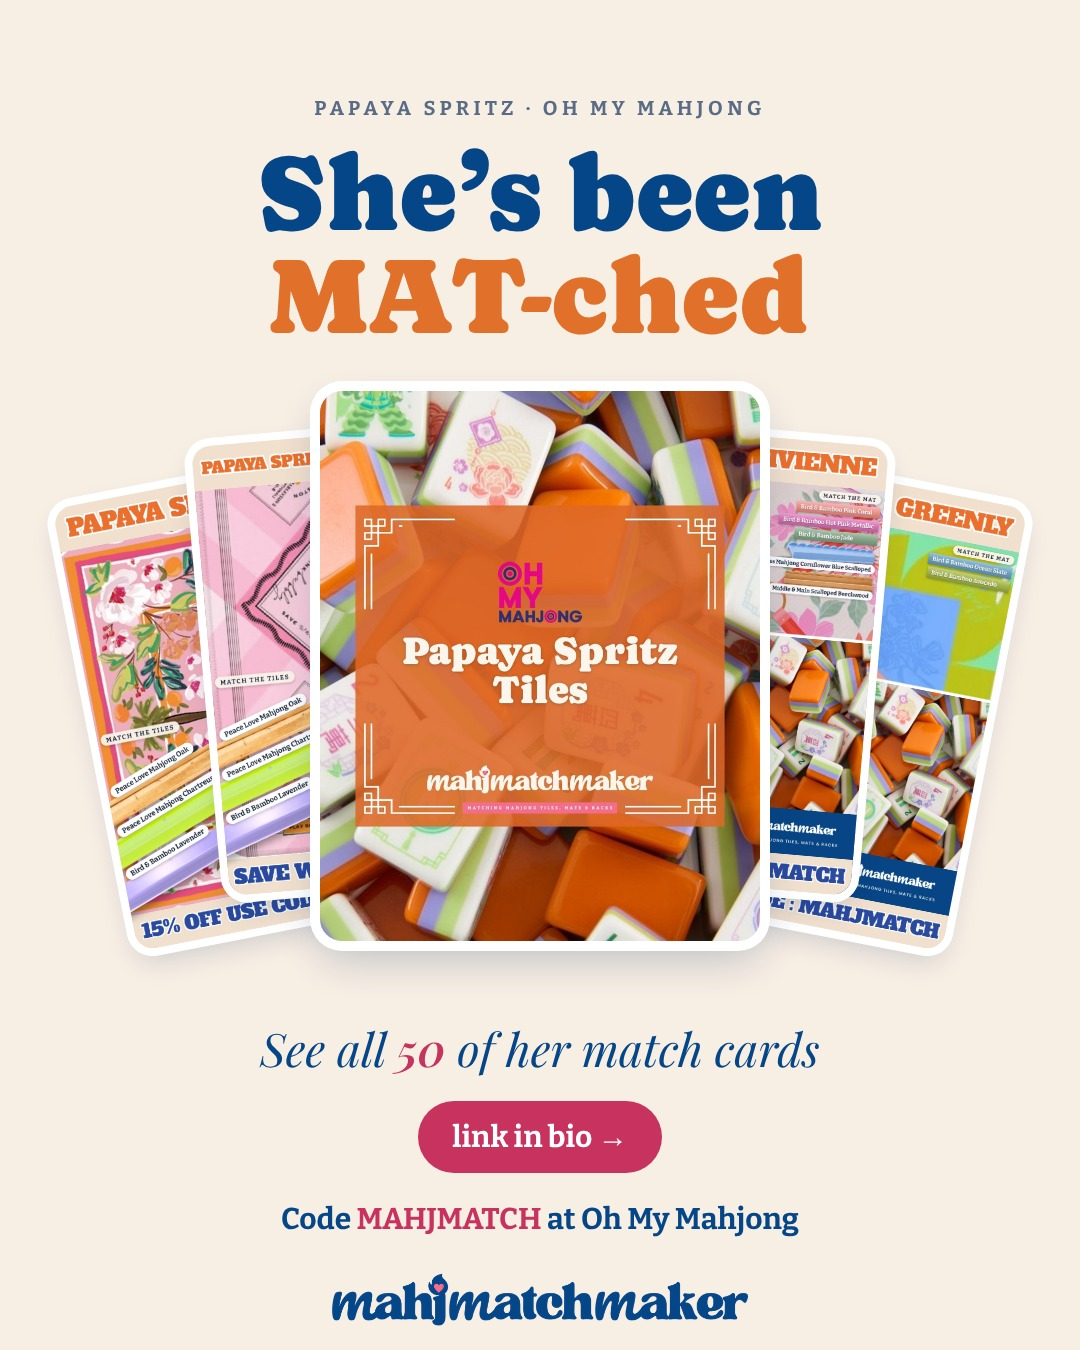
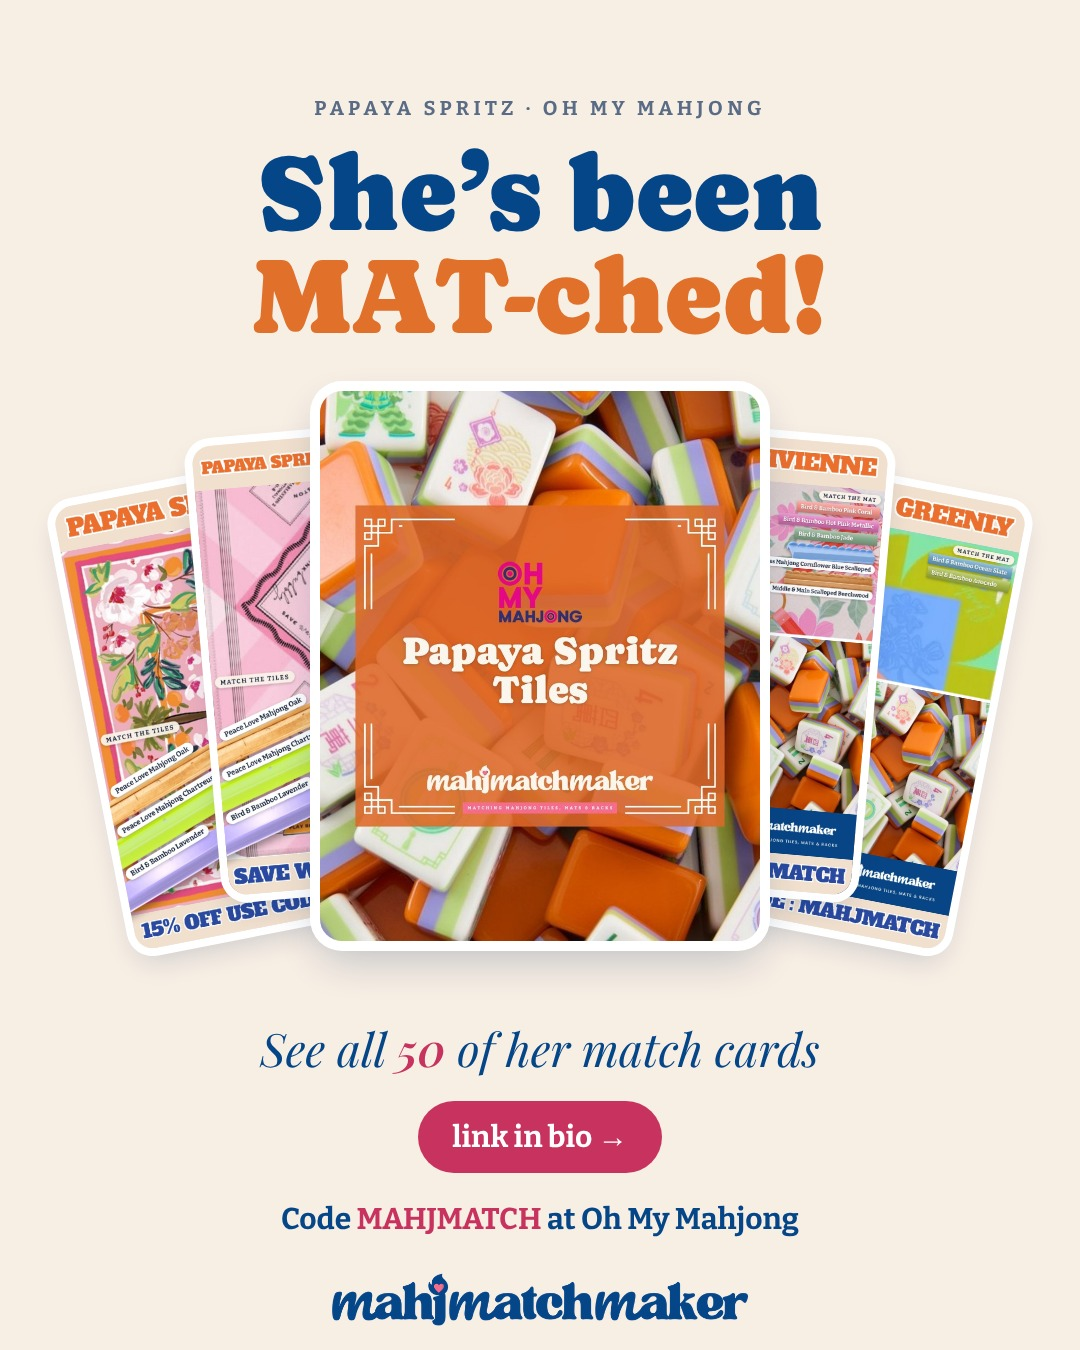
Papaya end slide: MAT-ched!
Claude-Session: https://claude.ai/code/session_014aKoC1ZMdZPjGkZ9kHhnLk

Changed region(s): [[0.2139, 0.1867, 0.7639, 0.2489]]

diff --git a/assets/social/papaya-spritz-launch/html/intro-7.html b/assets/social/papaya-spritz-launch/html/intro-7.html
@@ -25,7 +25,7 @@ html,body{width:1080px;height:1350px;overflow:hidden;background:#f7eee4;color:#0
 </style></head><body>
 <div style="position:absolute;inset:0;display:flex;flex-direction:column;align-items:center;text-align:center;padding:96px 80px 0">
  <div class="caps" style="font-size:20px;color:#5a6b85">Papaya Spritz · Oh My Mahjong</div>
- <div class="cap" style="font-size:108px;margin-top:22px;line-height:.95">She&rsquo;s been<br><span style="color:var(--acc)">MAT-ched</span></div>
+ <div class="cap" style="font-size:108px;margin-top:22px;line-height:.95">She&rsquo;s been<br><span style="color:var(--acc)">MAT-ched!</span></div>
  <div style="position:relative;margin-top:34px;width:900px;height:590px"><div class="ph" style="position:absolute;left:2px;top:90px;width:360px;height:450px;border-radius:18px;background-image:url(file:///home/claude/mahjmatchmaker-data/assets/cards/papaya-spritz/papaya-spritz-mahjong-tiles-britt-mills-heiress-mat.jpg);box-shadow:0 0 0 8px #fff,0 12px 28px rgba(6,40,90,.18);transform:rotate(-11deg);z-index:1"></div><div class="ph" style="position:absolute;left:538px;top:90px;width:360px;height:450px;border-radius:18px;background-image:url(file:///home/claude/mahjmatchmaker-data/assets/cards/papaya-spritz/papaya-spritz-mahjong-tiles-mahj-and-vine-greenly-mat.jpg);box-shadow:0 0 0 8px #fff,0 12px 28px rgba(6,40,90,.18);transform:rotate(11deg);z-index:1"></div><div class="ph" style="position:absolute;left:120px;top:50px;width:360px;height:450px;border-radius:18px;background-image:url(file:///home/claude/mahjmatchmaker-data/assets/cards/papaya-spritz/papaya-spritz-mahjong-tiles-anders-ruff-press-for-mahjong-mat.jpg);box-shadow:0 0 0 8px #fff,0 12px 28px rgba(6,40,90,.18);transform:rotate(-5deg);z-index:2"></div><div class="ph" style="position:absolute;left:420px;top:50px;width:360px;height:450px;border-radius:18px;background-image:url(file:///home/claude/mahjmatchmaker-data/assets/cards/papaya-spritz/papaya-spritz-mahjong-tiles-oh-my-mahjong-vivienne-mat.jpg);box-shadow:0 0 0 8px #fff,0 12px 28px rgba(6,40,90,.18);transform:rotate(5deg);z-index:2"></div><div class="ph" style="position:absolute;left:230px;top:10px;width:440px;height:550px;border-radius:22px;z-index:5;background-image:url(file:///home/claude/mahjmatchmaker-data/assets/covers/albums/w800/00-papaya-spritz-mahjong-tiles-cover.jpg);box-shadow:0 0 0 10px #fff,0 18px 40px rgba(6,40,90,.24)"></div></div>
  <div class="pf" style="font-size:46px;margin-top:46px">See all <b style="font-weight:600;color:var(--pink)">50</b> of her match cards</div>
  <div class="pill" style="margin-top:22px;background:var(--pink)">link in bio &rarr;</div>

diff --git a/scripts/social/tileprofile/intro.py b/scripts/social/tileprofile/intro.py
@@ -37,7 +37,7 @@ fan += (f'<div class="ph" style="position:absolute;left:{450 - 220}px;top:10px;w
 end = f"""<!doctype html><html><head><meta charset=utf8><style>{css(1080, 1350, S['col'])}</style></head><body>
 <div style="position:absolute;inset:0;display:flex;flex-direction:column;align-items:center;text-align:center;padding:96px 80px 0">
  <div class="caps" style="font-size:20px;color:#5a6b85">{e(P['name'])} · {e(P['brand'])}</div>
- <div class="cap" style="font-size:108px;margin-top:22px;line-height:.95">She&rsquo;s been<br><span style="color:var(--acc)">MAT-ched</span></div>
+ <div class="cap" style="font-size:108px;margin-top:22px;line-height:.95">She&rsquo;s been<br><span style="color:var(--acc)">MAT-ched!</span></div>
  <div style="position:relative;margin-top:34px;width:900px;height:590px">{fan}</div>
  <div class="pf" style="font-size:46px;margin-top:46px">See all <b style="font-weight:600;color:var(--pink)">{P['matches']}</b> of her match cards</div>
  <div class="pill" style="margin-top:22px;background:var(--pink)">link in bio &rarr;</div>
